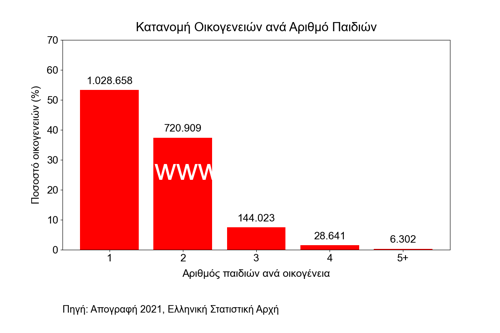
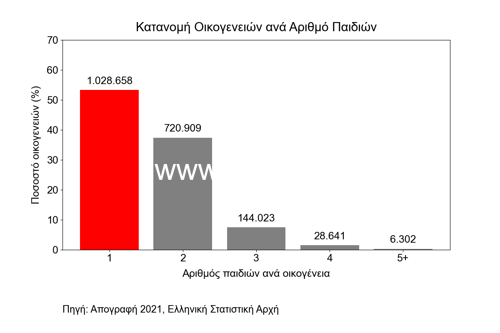
111

Changed region(s): [[0.3, 0.3904, 0.57, 0.7508], [0.6, 0.7207, 0.72, 0.7508]]

diff --git a/stats_images_insert.py b/stats_images_insert.py
@@ -4,21 +4,25 @@ from psycopg2.extras import Json
 
 # Variables for the new record
 stats_data = {
-    "Πρωτεΐνη": {"Roast Beef": 58, "Lentil Soup": 8},
-    "Σίδηρος (Fe)": {"Roast Beef": 21, "Lentil Soup": 10},
-    "Ψευδάργυρος (Zn)": {"Roast Beef": 73, "Lentil Soup": 6},
-    "Σελήνιο (Se)": {"Roast Beef": 55, "Lentil Soup": 2},
-    "Φολικό Οξύ": {"Roast Beef": 3, "Lentil Soup": 39},
-    "Βιταμίνη B-12": {"Roast Beef": 104, "Lentil Soup": 0}
+  "1_children_families": 1028658,
+  "1_children_families_percentage": 53.3,
+  "2_children_families": 720909,
+  "2_children_families_percentage": 37.4,
+  "3_children_families": 144023,
+  "3_children_families_percentage": 7.5,
+  "4_children_families": 28641,
+  "4_children_families_percentage": 1.5,
+  "5_children_families": 6302,
+  "5_children_families_percentage": 0.3
 }  
-tags = "Φακή, Μοσχάρι, Θρεπτικά"
-slug = "Σύγκριση-Θρεπτικών-Συστατικών-Μοσχαριού-Φακής-241122"
-source = "Πηγή: Υπουργείο Γεωργίας Η.Π.Α. (USDA)"
-title = "Σύγκριση Θρεπτικών Συστατικών Μοσχαριού - Φακής (100γρ)"
-description = "Στο παρόν γράφημα συγκρίνουμε τις ποσότητες 6 θρεπτικών συστατικών που περιέχονται στο ψητό μοσχάρι και στη σούπα φακής. Η σούπα φακής περιλαμβάνει βρασμένες φακές χωρίς αλάτι ως κύριο συστατικό (40γρ/100γρ). Για τη βάση της συνταγής, χρησιμοποιείται μιρεπουά, δηλαδή ένα μείγμα από μαγειρεμένα καρότα, σέλινο και κρεμμύδι (25γρ/100γρ). Προστίθεται πόσιμο νερό βρύσης (35γρ/100γρ) για το μαγείρεμα, μαζί με μια μικρή ποσότητα επιτραπέζιου αλατιού (0.6γρ/100γρ). Η συνταγή ολοκληρώνεται με την προσθήκη φυτικού λαδιού (0.5γρ/100γρ). Το ψητό μοσχάρι περιλαμβάνει διάφορα κομμάτια μοσχαρίσιου κρέατος, μαγειρεμένα με διαφορετικούς τρόπους. Περιλαμβάνει μοσχάρι από σπάλα χωρίς κόκαλο και μόνο το άπαχο μέρος, μαγειρεμένο και βραστό (25γρ/100γρ), καθώς και μοσχάρι από σπάλα χωρίς κόκαλο με άπαχο και λιπαρό μέρος, μαγειρεμένο και βραστό (25γρ/100γρ). Επιπλέον, περιλαμβάνει μοσχάρι από μηρό χωρίς κόκαλο και μόνο το άπαχο μέρος, μαγειρεμένο και ψητό (25γρ/100γρ), καθώς και μοσχάρι από μηρό χωρίς κόκαλο με άπαχο και λιπαρό μέρος, μαγειρεμένο και ψητό (25γρ/100γρ). Προστίθεται επιτραπέζιο αλάτι σε μικρή ποσότητα (0.8γρ/100γρ)."
-w_image_file_path = "/stats_images_watermarked/Σύγκριση_Θρεπτικών_Συστατικών_Μοσχαριού_Φακής_watermarked.png"
-image_file_path = "/stats_images/Σύγκριση_Θρεπτικών_Συστατικών_Μοσχαριού_Φακής.png"
-thumbnail_file_path = "/stats_thumbnails/Σύγκριση_Θρεπτικών_Συστατικών_Μοσχαριού_Φακής_thumbnail.png"
+tags = "Παιδιά, Οικογένεια, Παιδιά ανά οικογένεια"
+slug = "Κατανομή-Οικογενειών-ανά-Αριθμό-Παιδιών-241123"
+source = "Πηγή: Απογραφή 2021, Ελληνική Στατιστική Αρχή"
+title = "Κατανομή Οικογενειών ανά Αριθμό Παιδιών"
+description = "Στο παρόν γράφημα παρουσιάζεται η Κατανομή Οικογενειών ανά Αριθμό Παιδιών προκειμένου να δειχθεί το μεγάλο ποσοστό των οικογενειών με ένα παιδί, γεγονός που θα έχει σημαντικές επιπτώσεις στην κοινωνία."
+w_image_file_path = "/stats_images_watermarked/Κατανομή_Οικογενειών_ανά_Αριθμό_Παιδιών_watermarked.png"
+image_file_path = "/stats_images/Κατανομή_Οικογενειών_ανά_Αριθμό_Παιδιών.png"
+thumbnail_file_path = "/stats_thumbnails/Κατανομή_Οικογενειών_ανά_Αριθμό_Παιδιών.png"
 
 # Database connection details
 db_config = {

diff --git a/bar_chart _children_per_family.py b/bar_chart _children_per_family.py
@@ -53,7 +53,7 @@ plt.rcParams['font.size'] = font_size
 # Create a vertical bar chart
 plt.figure(figsize=(12, 8), dpi=100)
 x = range(len(categories))  # X-axis positions
-bars = plt.bar(x, percentages, color=bar_color)
+bars = plt.bar(x, percentages, color=["red" if i == 0 else "grey" for i in range(len(categories))])
 
 plt.ylim(0, 70)
 
